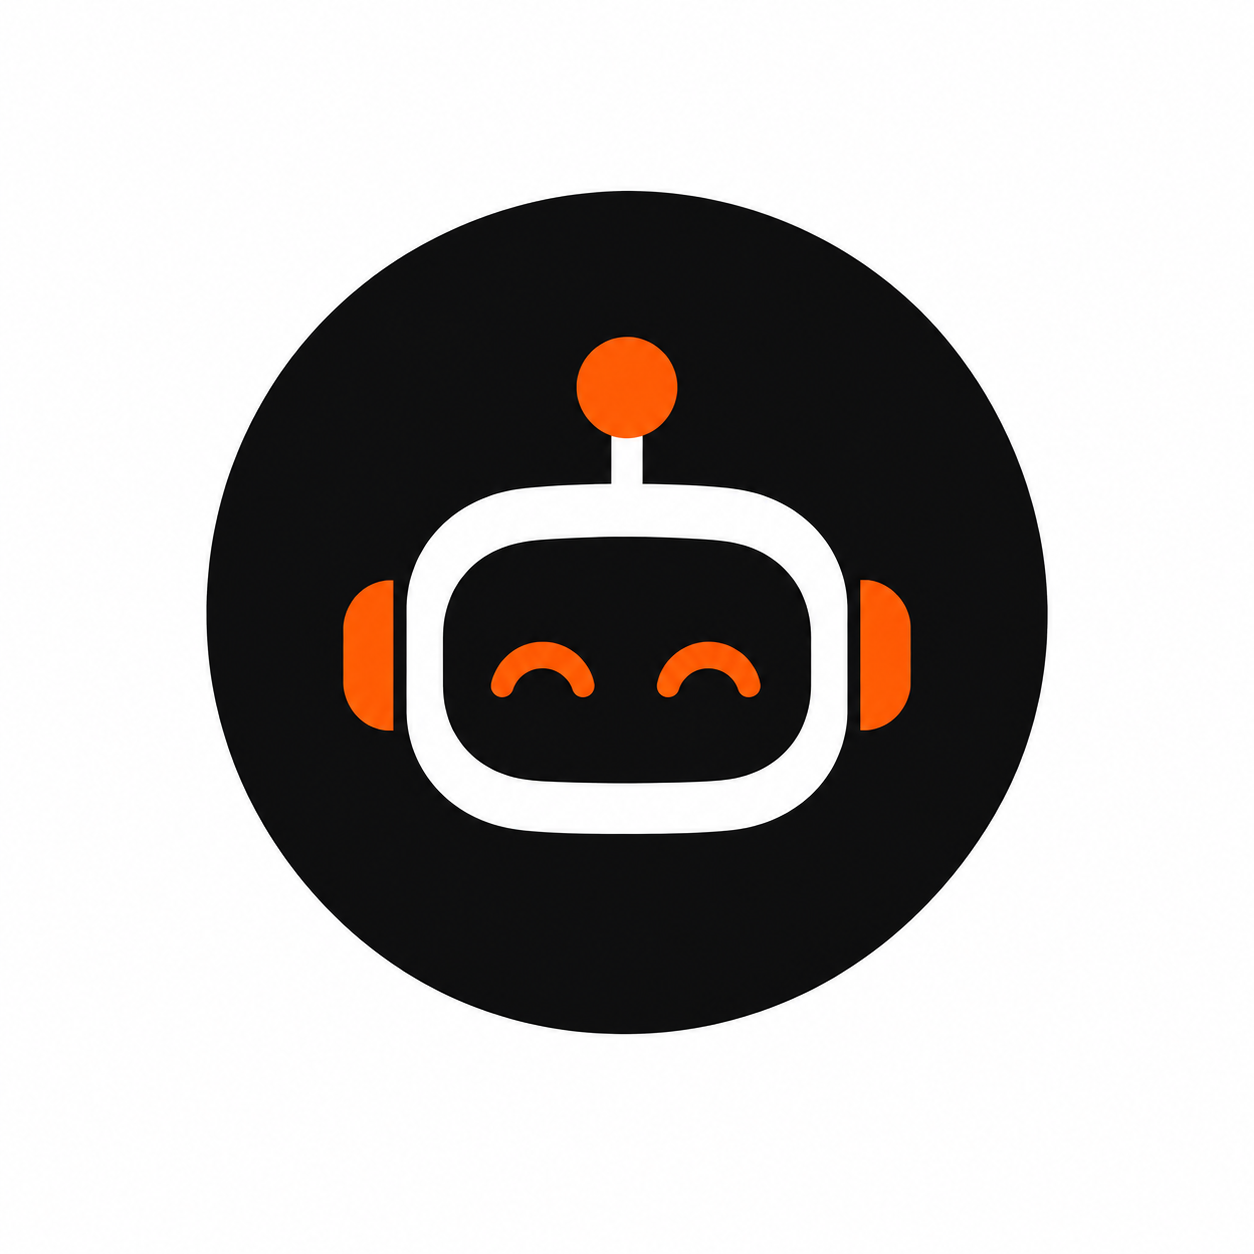
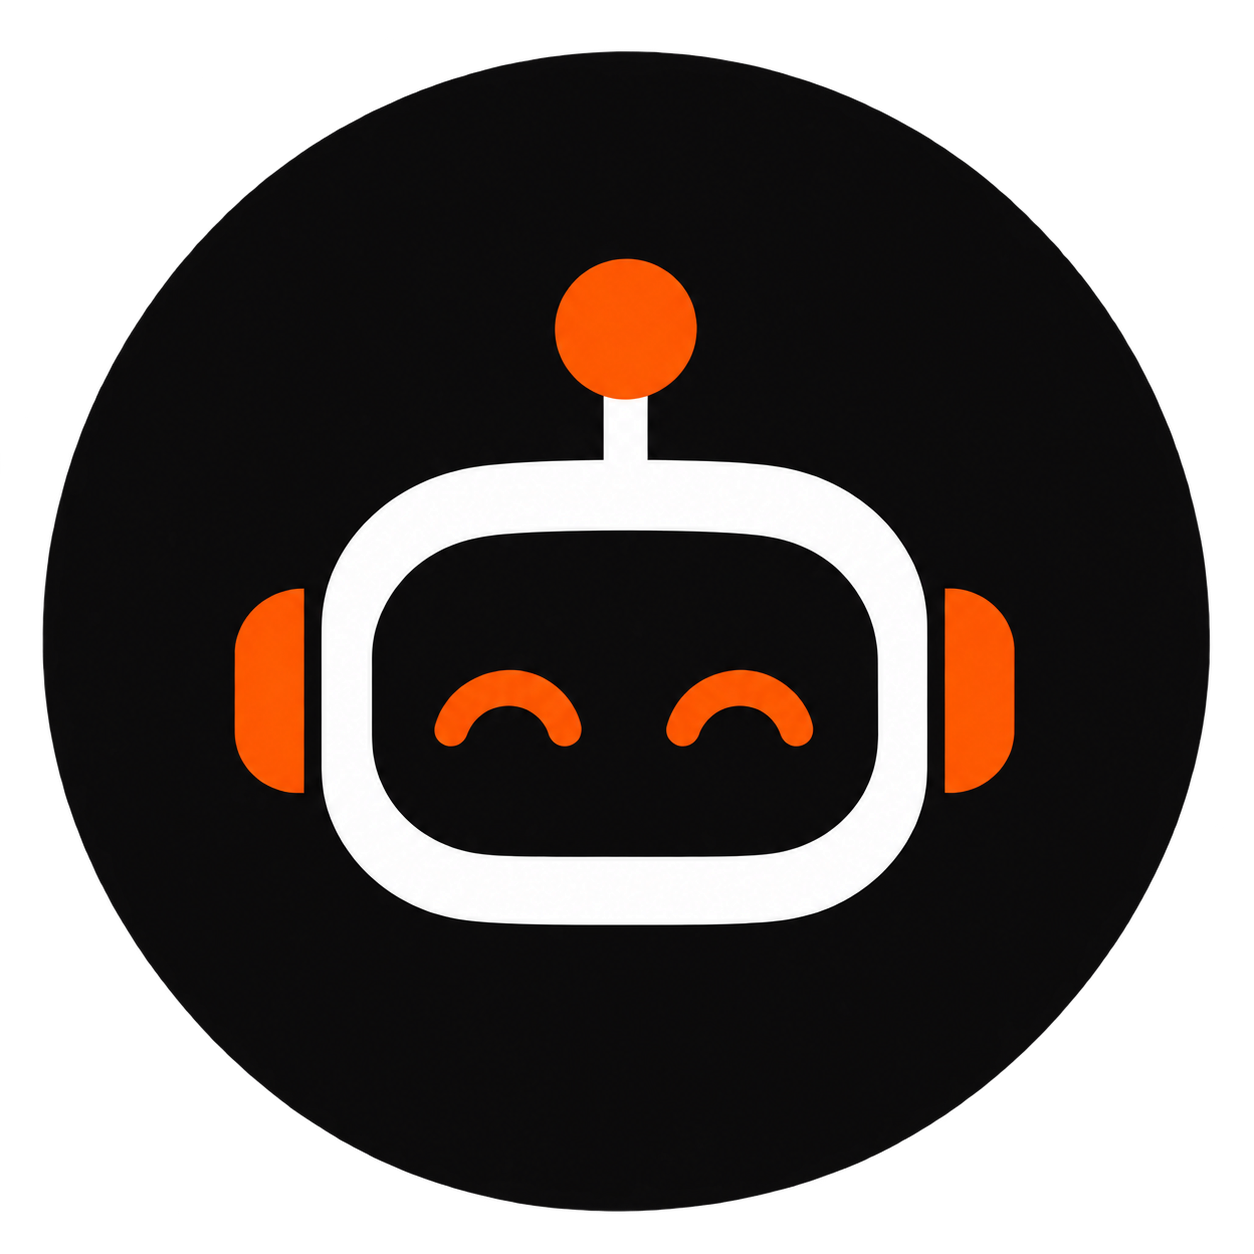
Restore agenda styling and refine chatbot launcher

diff --git a/public/monobot-studio/style.css b/public/monobot-studio/style.css
@@ -155,11 +155,11 @@ footer{background:#171717}
 
 /* Chatbot shell: UI-only preview */
 .monobot-chatbot{position:fixed;right:clamp(14px,2.4vw,30px);bottom:clamp(14px,2.4vw,28px);z-index:1400;font-family:var(--sans);color:var(--ink)}
-.chatbot-launcher{position:relative;display:grid;width:68px;height:68px;padding:0;place-items:center;overflow:hidden;border:0;border-radius:50%;background:#fff;box-shadow:none;cursor:pointer;transition:transform .22s ease}
+.chatbot-launcher{position:relative;display:grid;width:68px;height:68px;padding:0;place-items:center;overflow:visible;border:0;border-radius:50%;background:transparent;box-shadow:none;cursor:pointer;transition:transform .22s ease}
 .chatbot-launcher:hover{transform:translateY(-3px) scale(1.02);box-shadow:none;outline:0}
 .chatbot-launcher:focus-visible{outline:2px solid #ff6500;outline-offset:3px}
-.chatbot-launcher img{width:100%;height:100%;border-radius:50%;object-fit:cover;background:#fff;filter:none;transform:scale(1.48)}
-.chatbot-launcher-prompt{position:absolute;right:47px;bottom:49px;width:132px;height:27px;overflow:hidden;border-radius:999px;background:#ff5c00;color:#fff;font-size:9px;font-weight:900;letter-spacing:.06em;text-transform:uppercase;white-space:nowrap;box-shadow:0 6px 16px rgba(255,92,0,.28);animation:chatbot-prompt-dismiss 6s ease forwards}
+.chatbot-launcher img{display:block;width:100%;height:100%;border-radius:50%;object-fit:contain;background:transparent;filter:none;transform:none}
+.chatbot-launcher-prompt{position:absolute;right:calc(100% + 10px);top:50%;bottom:auto;translate:0 -50%;width:132px;height:27px;overflow:hidden;border-radius:999px;background:#ff5c00;color:#fff;font-size:9px;font-weight:900;letter-spacing:.06em;text-transform:uppercase;white-space:nowrap;box-shadow:0 6px 16px rgba(255,92,0,.28);animation:chatbot-prompt-dismiss 6s ease forwards}
 .chatbot-launcher-line{position:absolute;inset:0;display:grid;place-items:center;padding:6px 9px;opacity:0}
 .chatbot-launcher-intro{animation:chatbot-prompt-intro 6s ease forwards}
 .chatbot-launcher-help{animation:chatbot-prompt-help 6s ease forwards}
@@ -208,7 +208,7 @@ footer{background:#171717}
 @keyframes chatbot-wave-sway{0%,100%{rotate:0deg}20%,46%{rotate:-1.6deg}33%,60%{rotate:.8deg}80%{rotate:-.6deg}}
 @keyframes chatbot-wave-arm{0%{rotate:10deg}16%{rotate:-14deg}31%{rotate:5deg}46%{rotate:-14deg}61%{rotate:5deg}76%{rotate:-9deg}89%{rotate:2deg}100%{rotate:0deg}}
 @keyframes chatbot-wave-pop{0%{opacity:0;scale:0}100%{opacity:1;scale:1}}
-@media(max-width:700px){.monobot-chatbot{right:12px;bottom:12px}.chatbot-launcher{width:60px;height:60px}.chatbot-launcher img{width:100%;height:100%}.chatbot-launcher-prompt{right:41px;bottom:43px}.monobot-chatbot.is-open .chatbot-launcher{opacity:0;pointer-events:none}.chatbot-panel{position:fixed;inset:8px 8px auto;width:auto;height:calc(var(--chatbot-mobile-height,100dvh) - 16px);max-height:none;border:1px solid rgba(255,112,20,.24);border-radius:18px;box-shadow:0 18px 44px rgba(20,14,10,.28);transform:translateY(24px);transform-origin:center bottom;overscroll-behavior:contain}.chatbot-header{gap:8px;padding:calc(13px + env(safe-area-inset-top)) 12px 13px}.chatbot-header-brand{gap:7px}.chatbot-header-logo{width:34px;height:24px;border-radius:6px}.chatbot-heading strong{font-size:12px}.chatbot-heading small{font-size:7px}.chatbot-book{min-height:30px;padding:6px 9px;font-size:9px}.chatbot-messages{padding:15px 13px;overscroll-behavior:contain}.chatbot-composer{margin-inline:13px}.chatbot-composer input{font-size:16px}.chatbot-composer button{width:44px;height:44px}.chatbot-disclaimer{margin:9px 13px calc(10px + env(safe-area-inset-bottom))}}
+@media(max-width:700px){.monobot-chatbot{right:12px;bottom:12px}.chatbot-launcher{width:60px;height:60px}.chatbot-launcher img{width:100%;height:100%}.chatbot-launcher-prompt{right:calc(100% + 8px);top:50%;bottom:auto}.monobot-chatbot.is-open .chatbot-launcher{opacity:0;pointer-events:none}.chatbot-panel{position:fixed;inset:8px 8px auto;width:auto;height:calc(var(--chatbot-mobile-height,100dvh) - 16px);max-height:none;border:1px solid rgba(255,112,20,.24);border-radius:18px;box-shadow:0 18px 44px rgba(20,14,10,.28);transform:translateY(24px);transform-origin:center bottom;overscroll-behavior:contain}.chatbot-header{gap:8px;padding:calc(13px + env(safe-area-inset-top)) 12px 13px}.chatbot-header-brand{gap:7px}.chatbot-header-logo{width:34px;height:24px;border-radius:6px}.chatbot-heading strong{font-size:12px}.chatbot-heading small{font-size:7px}.chatbot-book{min-height:30px;padding:6px 9px;font-size:9px}.chatbot-messages{padding:15px 13px;overscroll-behavior:contain}.chatbot-composer{margin-inline:13px}.chatbot-composer input{font-size:16px}.chatbot-composer button{width:44px;height:44px}.chatbot-disclaimer{margin:9px 13px calc(10px + env(safe-area-inset-bottom))}}
 @media(prefers-reduced-motion:reduce){.chatbot-launcher,.chatbot-panel,.chatbot-loading-dot{transition:none;animation:none}.chatbot-wave.is-playing *{animation:none!important}.chatbot-launcher-prompt{display:none}.chatbot-launcher-line{animation:none}}
 @media(max-width:1100px){.cta-bot{display:block;margin:0 42px 42px;min-height:390px}.cta-bot img{object-position:center 42%!important}}
 @media(max-width:700px){.section{padding-block:76px}.nav-logo,.nav-logo img{width:44px;height:38px}.footer-logo,.footer-logo img{width:50px;height:42px}.page-hero-mark{border-radius:20px}.cta-copy{padding:42px 24px}.cta h2 span{white-space:normal}.cta-bot{display:block;width:auto;margin:0 20px 20px;min-height:285px;border-radius:18px}.cta-bot img{object-position:center!important}}
@@ -518,79 +518,46 @@ footer .footer-main .footer-agenda-button span{
   footer .footer-main .footer-agenda-button span{font-size:10px}
 }
 
-/* Agenda: composición editorial clara y alineada con el encabezado */
-.agenda-custom-page{
-  background-color:#f8f5f0;
-  background-image:radial-gradient(circle at 10% 28%,rgba(255,101,0,.07),transparent 25%),radial-gradient(circle at 88% 62%,rgba(255,154,84,.07),transparent 28%);
-}
-.agenda-custom-page .site-header{
-  color:#22201e;
-  background:rgba(248,245,240,.96);
-  border-color:rgba(95,75,61,.18);
-  box-shadow:0 16px 34px rgba(70,48,31,.1),inset 0 1px rgba(255,255,255,.72);
-}
-.agenda-custom-page .site-header:before,.agenda-custom-page .site-header:after{opacity:.16}
-.agenda-custom-page .site-header .brand-wordmark-header{display:none}
-.agenda-custom-page .site-header .brand-text:before{
-  content:"";
-  width:38px;
-  height:34px;
-  flex:0 0 auto;
-  background:url('/monobot-studio/brand/monobot-mark.png') center/contain no-repeat;
-}
-.agenda-custom-page .site-header .brand-text:after{
-  content:"MONOBOT  STUDIO";
-  color:#1e1d1b;
-  font-size:14px;
-  font-weight:800;
-  letter-spacing:.22em;
-  white-space:nowrap;
-}
-.agenda-custom-page .site-header .nav nav a,
-.agenda-custom-page .nav-secondary p{color:#625d57}
-.agenda-custom-page .site-header .nav nav a:hover,
-.agenda-custom-page .site-header .nav nav a.is-active{color:#171614}
-.agenda-custom-page .nav-secondary{border-top-color:rgba(54,48,43,.12)}
-.agenda-custom-page .nav-secondary p:last-child{border-left-color:rgba(54,48,43,.15)}
-.agenda-custom-page .site-header.is-compact{background:rgba(248,245,240,.92)}
-.agenda-custom-page .site-header .mobile-menu summary{color:#24211f}
+/* Agenda: recupera el escenario cálido y el encabezado oscuro original */
 .agenda-custom-page .agenda-hero{
   position:relative;
   isolation:isolate;
   width:min(1240px,calc(100% - 64px));
   min-height:0;
-  grid-template-columns:minmax(0,.92fr) minmax(540px,1.08fr);
-  gap:clamp(38px,4.5vw,66px);
+  grid-template-columns:minmax(0,1fr) minmax(520px,650px);
+  column-gap:clamp(26px,3.25vw,50px);
   align-items:start;
-  padding-block:54px 72px;
+  padding-block:26px 54px;
 }
 .agenda-custom-page .agenda-hero:before{
   content:"";
   position:absolute;
-  z-index:-1;
-  inset:0 50% 0 calc(50% - 50vw);
-  background:linear-gradient(135deg,rgba(255,255,255,.42),rgba(255,255,255,0) 70%);
+  z-index:-2;
+  top:0;
+  bottom:0;
+  left:50%;
+  width:100vw;
+  transform:translateX(-50%);
+  background:#fff8f1 url('/monobot-studio/brand/agenda-waves-background.png') center 145px/cover no-repeat;
   pointer-events:none;
 }
 .agenda-custom-page .agenda-hero-copy{
   min-width:0;
-  padding:22px 0 0;
+  padding:10px 0 0;
 }
 .agenda-custom-page .agenda-hero h1{
-  max-width:570px;
-  margin:0 0 22px;
-  font-size:clamp(52px,4.4vw,70px);
-  line-height:.94;
+  max-width:620px;
+  margin:14px 0 20px;
+  font-size:clamp(58px,4.75vw,76px);
+  line-height:.92;
 }
 .agenda-custom-page .agenda-hero .lede{
-  max-width:560px;
-  margin-bottom:30px;
-  color:#4f4a45;
-  font-size:17px;
-  line-height:1.65;
+  max-width:590px;
+  margin-bottom:26px;
+  font-size:16px;
 }
 .agenda-custom-page .agenda-benefits{
-  max-width:570px;
+  max-width:590px;
   margin:0;
   border-bottom:1px solid rgba(69,58,49,.16);
 }
@@ -622,46 +589,27 @@ footer .footer-main .footer-agenda-button span{
   width:100%;
   max-width:650px;
   justify-self:end;
-  background:rgba(255,255,255,.9);
-  border-color:rgba(91,73,58,.16);
-  box-shadow:0 26px 54px rgba(72,48,30,.16);
-  backdrop-filter:blur(7px);
+  background:rgba(255,255,255,.94);
+  box-shadow:0 28px 54px rgba(72,48,30,.2);
+  backdrop-filter:blur(5px);
 }
 
-/* Enlaces del pie: más visibles y con estado de página actual */
+/* Enlaces del pie: texto sencillo, sin indicadores ni negritas */
 footer .footer-main>div:nth-child(2) a{
-  display:flex;
-  align-items:center;
-  gap:9px;
-  width:fit-content;
-  padding:3px 8px 3px 0;
-  color:#ddd5cc;
-  font-weight:650;
-}
-footer .footer-main>div:nth-child(2) a:before{
-  content:"";
-  width:5px;
-  height:5px;
-  flex:0 0 auto;
-  border-radius:50%;
-  background:var(--orange);
-  opacity:.65;
+  display:block;
+  width:auto;
+  padding:0;
+  color:#aaa39a;
+  font-weight:400;
 }
 footer .footer-main>div:nth-child(2) a:hover,
 footer .footer-main>div:nth-child(2) a.is-active{
   color:#fff;
-  transform:translateX(3px);
-}
-footer .footer-main>div:nth-child(2) a.is-active:before{
-  box-shadow:0 0 0 4px rgba(255,101,0,.15);
-  opacity:1;
+  transform:none;
 }
 .footer-bottom>span:nth-child(2){display:none}
 
 @media(max-width:1000px){
-  .agenda-custom-page .site-header .mobile-menu>div{background:#f8f5f0;color:#24211f;border-color:rgba(255,101,0,.28)}
-  .agenda-custom-page .site-header .mobile-menu a{color:#393532}
-  .agenda-custom-page .site-header .mobile-menu a.is-active{color:#191715}
   .agenda-custom-page .agenda-hero{
     grid-template-columns:1fr;
     width:min(1240px,calc(100% - 64px));
@@ -675,8 +623,6 @@ footer .footer-main>div:nth-child(2) a.is-active:before{
   .agenda-custom-page .booking-shell{max-width:none;justify-self:stretch}
 }
 @media(max-width:700px){
-  .agenda-custom-page .site-header .brand-text:before{width:31px;height:28px}
-  .agenda-custom-page .site-header .brand-text:after{font-size:11px;letter-spacing:.17em}
   .agenda-custom-page .agenda-hero{
     width:calc(100% - 32px);
     gap:34px;
